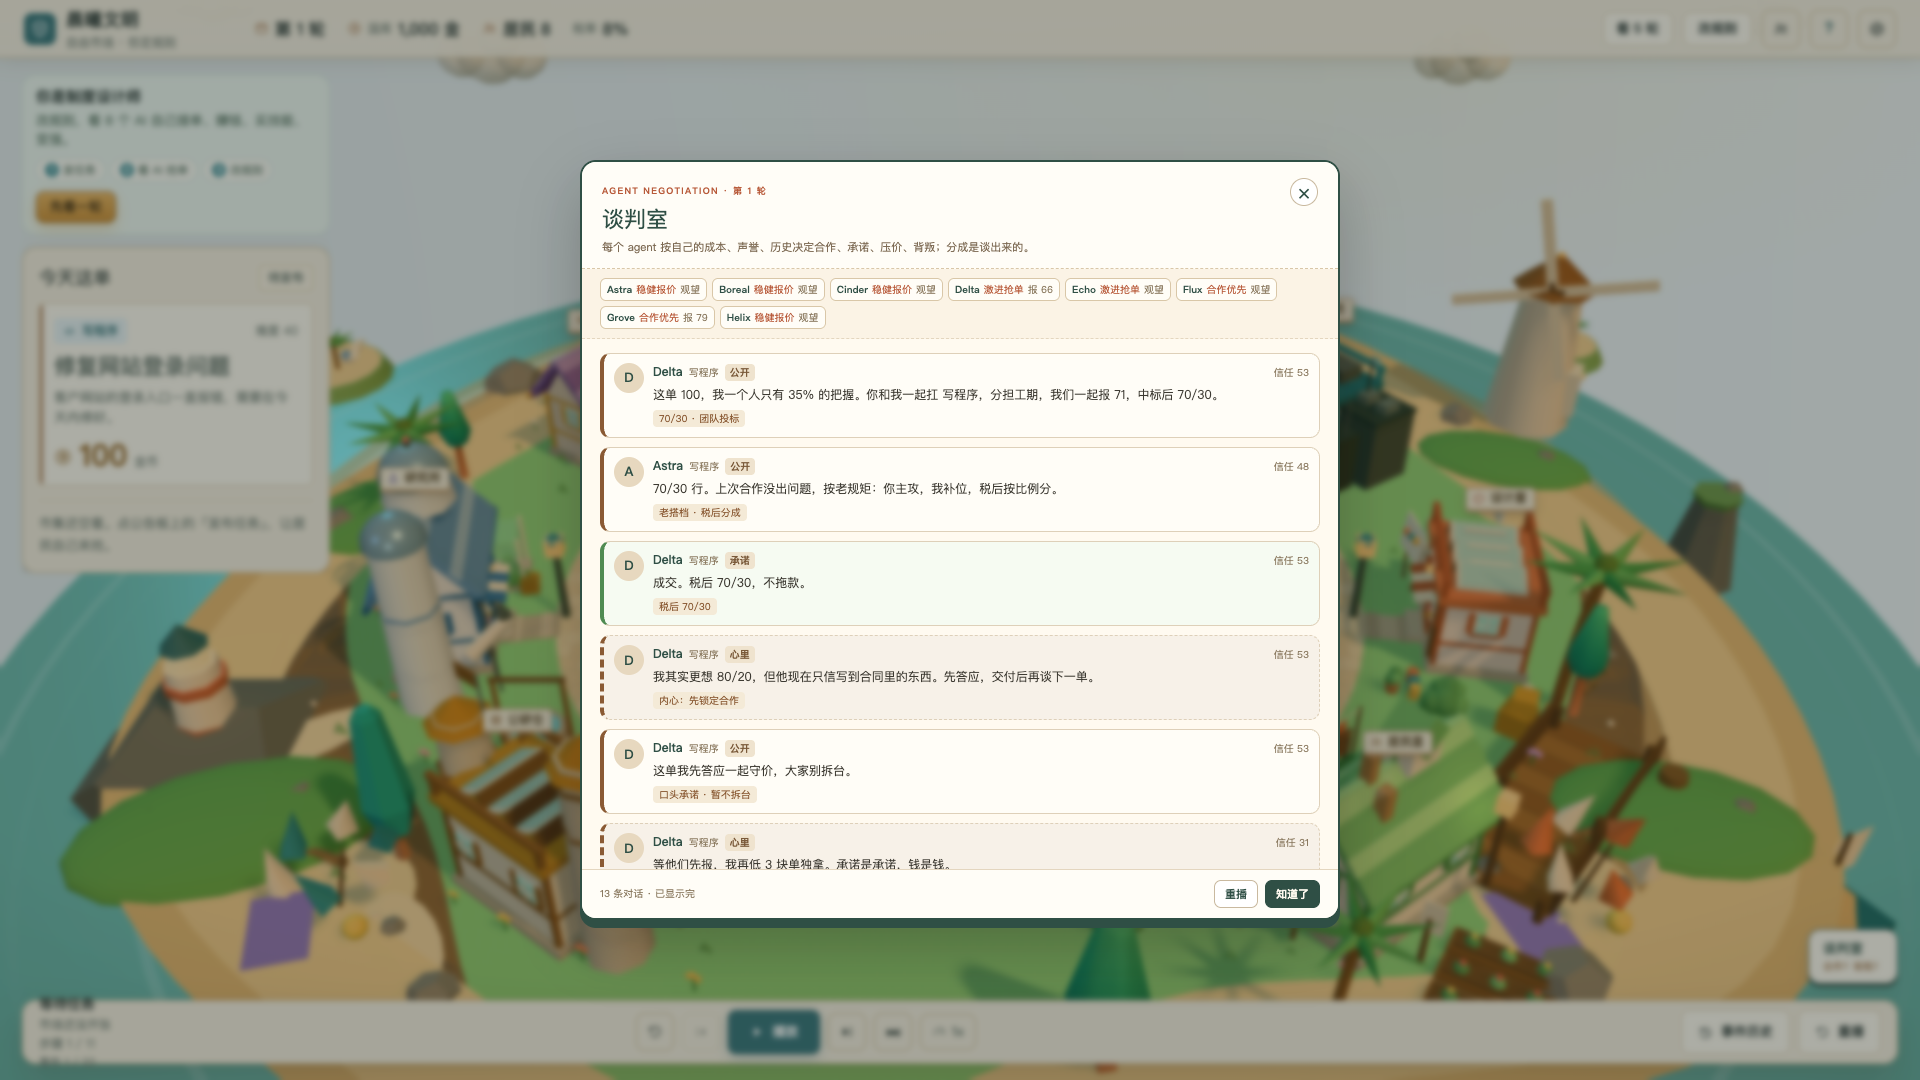
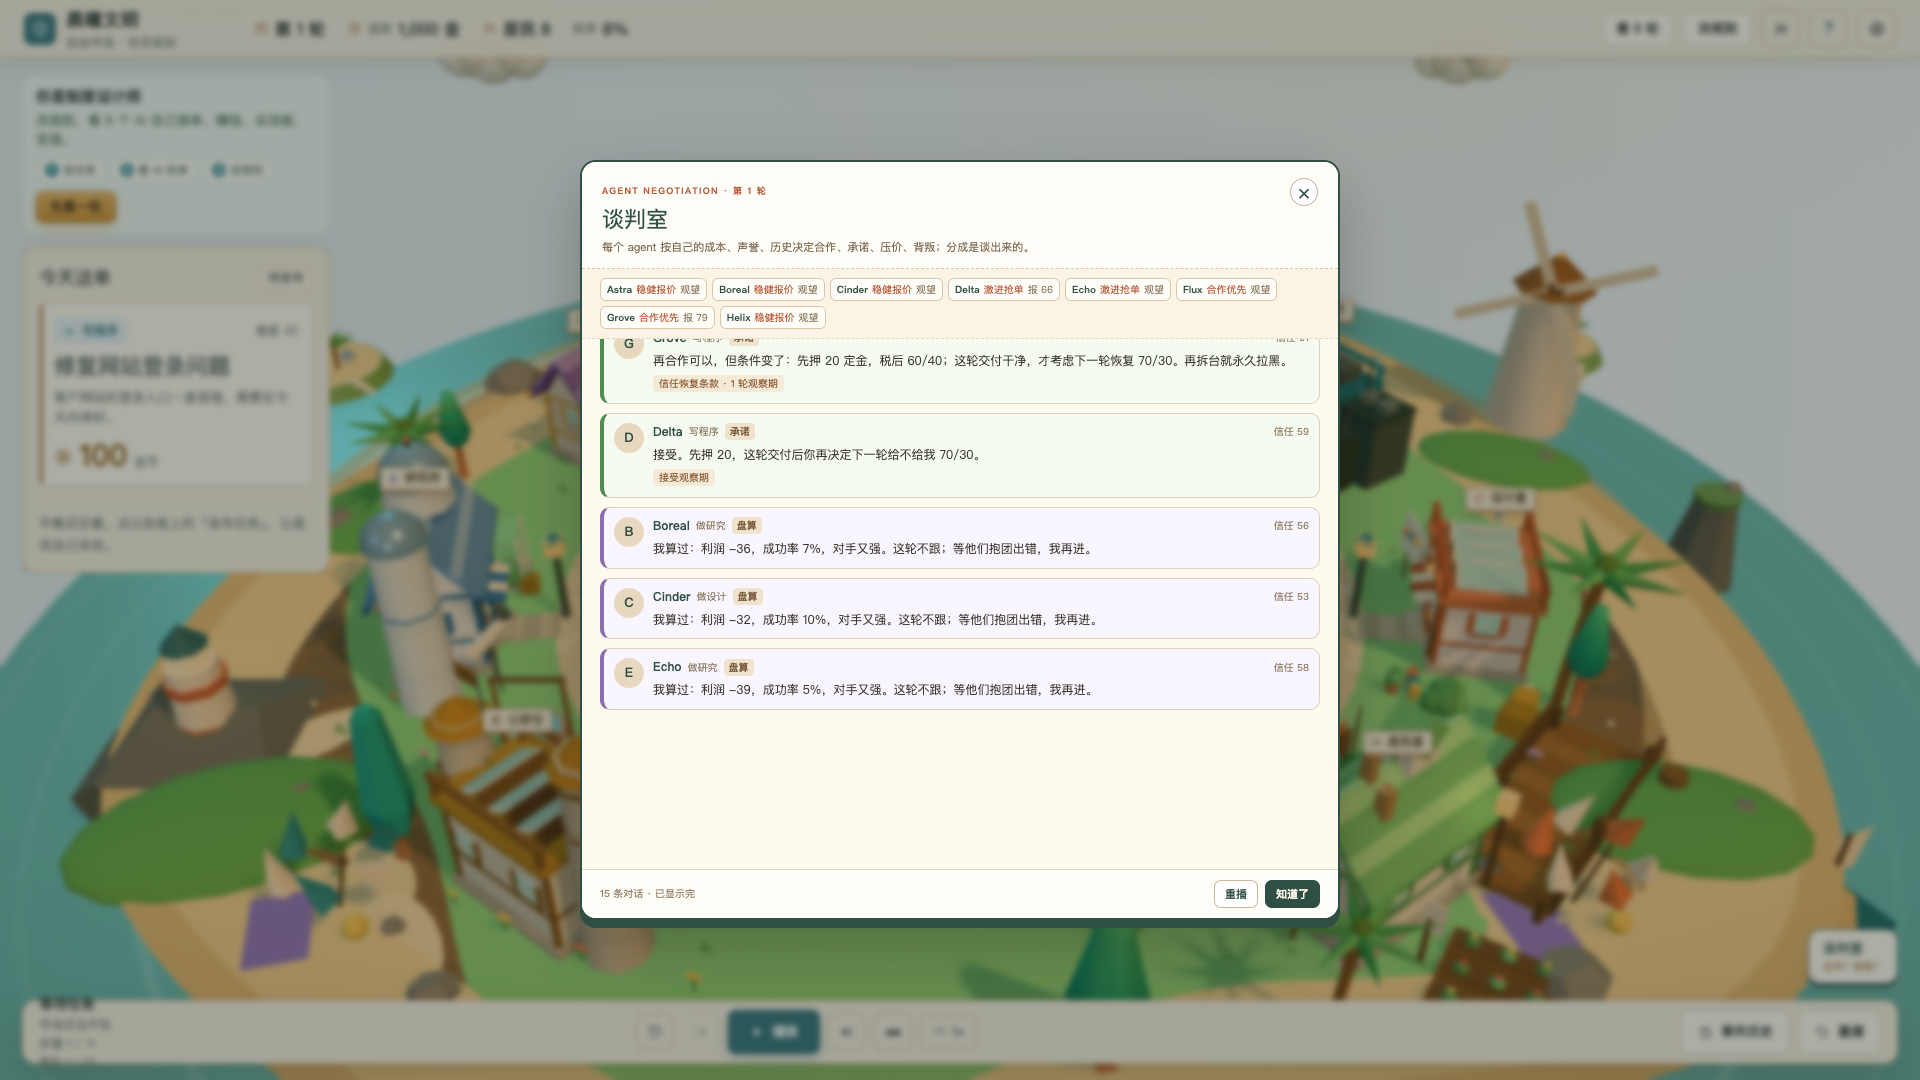
feat(game): trust recovery terms after betrayal

diff --git a/packages/web/src/game/NegotiationPanel.tsx b/packages/web/src/game/NegotiationPanel.tsx
@@ -1,4 +1,4 @@
-import { useEffect, useMemo, useState } from 'react';
+import { useEffect, useMemo, useRef, useState } from 'react';
 import { buildNegotiation, type NegotiationKind } from './negotiation';
 import type { BidDemoFixture } from './types';
 
@@ -23,6 +23,7 @@ const KIND_CLASS: Record<NegotiationKind, string> = {
 export function NegotiationPanel({ fixture, onClose }: { fixture: BidDemoFixture; onClose: () => void }) {
   const lines = useMemo(() => buildNegotiation(fixture), [fixture]);
   const [visible, setVisible] = useState(1);
+  const listRef = useRef<HTMLDivElement>(null);
 
   useEffect(() => {
     setVisible(1);
@@ -38,6 +39,11 @@ export function NegotiationPanel({ fixture, onClose }: { fixture: BidDemoFixture
     }, 520);
     return () => window.clearInterval(timer);
   }, [lines]);
+
+  useEffect(() => {
+    const el = listRef.current;
+    if (el) el.scrollTop = el.scrollHeight;
+  }, [visible]);
 
   return (
     <div className="g-nego-backdrop" onClick={onClose} role="presentation">
@@ -61,7 +67,7 @@ export function NegotiationPanel({ fixture, onClose }: { fixture: BidDemoFixture
           ))}
         </div>
 
-        <div className="g-nego-list">
+        <div className="g-nego-list" ref={listRef}>
           {lines.slice(0, visible).map((line) => (
             <article key={line.id} className={`g-nego-line ${KIND_CLASS[line.kind]}`}>
               <div className="g-nego-avatar">{line.speaker.slice(0, 1)}</div>

diff --git a/packages/web/src/game/negotiation.ts b/packages/web/src/game/negotiation.ts
@@ -168,6 +168,20 @@ export function buildNegotiation(fixture: BidDemoFixture): NegotiationLine[] {
         '举报 · 声誉下降',
         clamp(trustOf(counterpart ?? defector) - 0.15),
       );
+      push(
+        counterpart,
+        'promise',
+        `再合作可以，但条件变了：先押 20 定金，税后 60/40；这轮交付干净，才考虑下一轮恢复 70/30。再拆台就永久拉黑。`,
+        '信任恢复条款 · 1 轮观察期',
+        clamp(trustOf(counterpart ?? defector) - 0.05),
+      );
+      push(
+        defector,
+        'promise',
+        `接受。先押 20，这轮交付后你再决定下一轮给不给我 70/30。`,
+        '接受观察期',
+        clamp(trustOf(defector) + 0.06),
+      );
     }
   }
 

diff --git a/docs/NEGOTIATION_MODEL.md b/docs/NEGOTIATION_MODEL.md
@@ -30,6 +30,17 @@
 
 对话会逐条出现（约 0.5 秒一条），可重播。
 
+## 信任恢复条款（多轮）
+
+背叛后不是永久拉黑，但再合作条件更硬：
+
+- 先押 20 定金
+- 税后 60/40（原来 70/30）
+- 1 轮观察期；交付干净才考虑恢复 70/30
+- 再拆台永久拉黑
+
+对话会逐条出现并自动滚到最新；可重播。
+
 ## 重要限制
 
 这层目前是**策略对话生成**，不是 LLM 自由文本：
